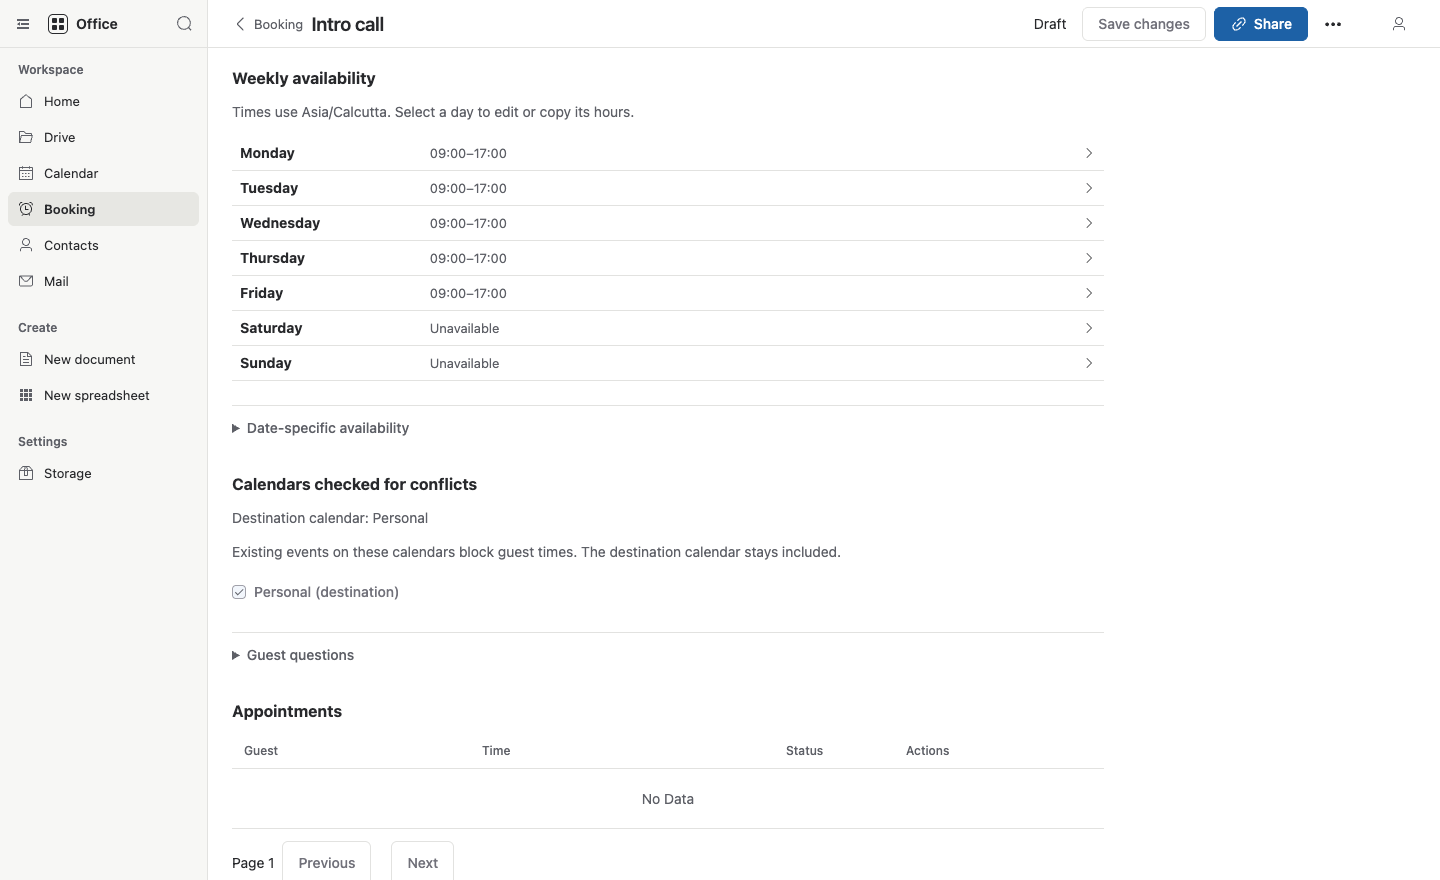
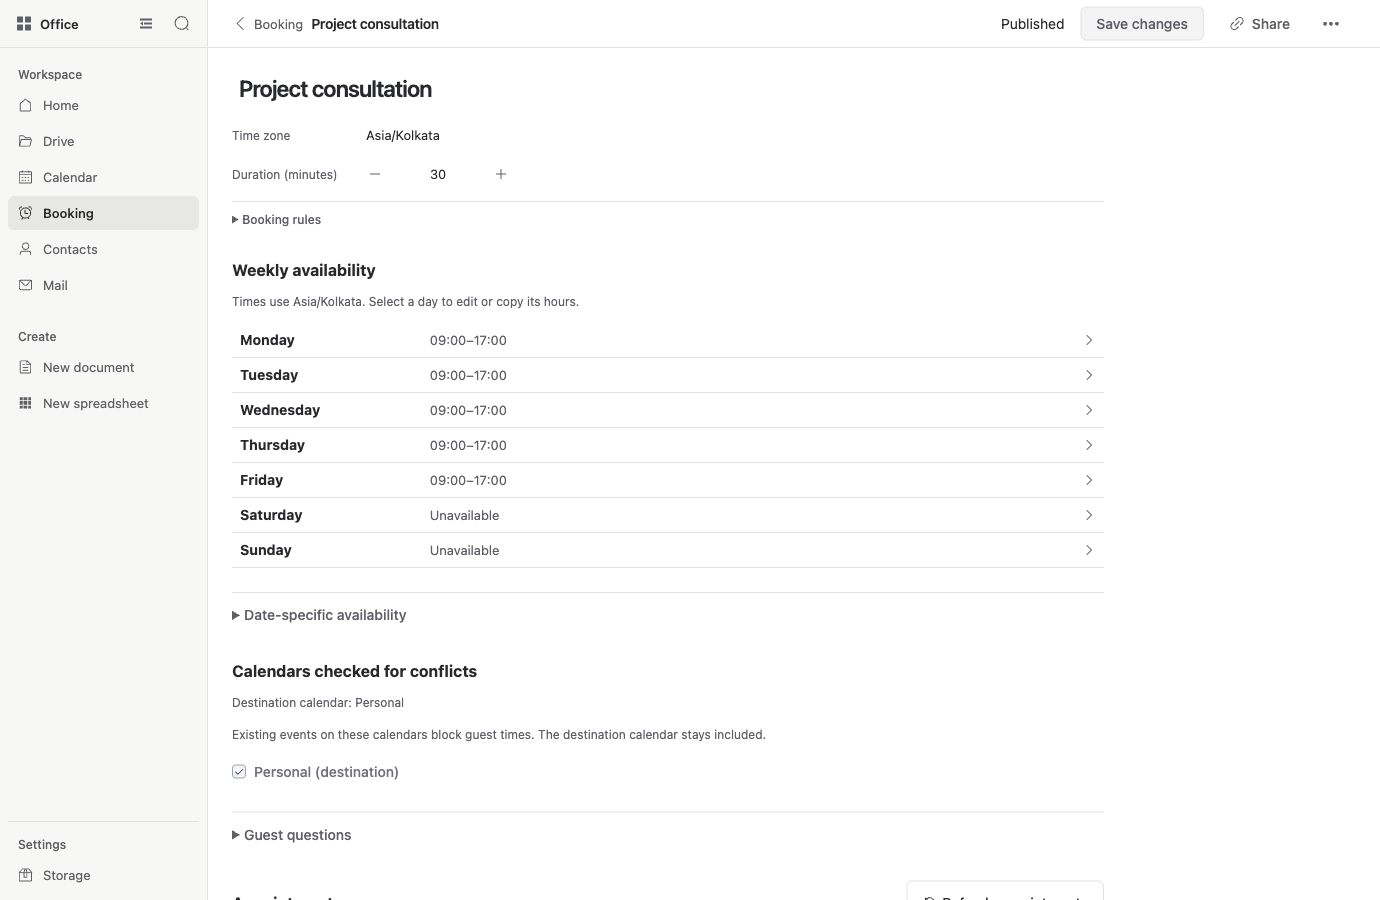
Add twelve actual product screens with a populated project

diff --git a/website/index.template.html b/website/index.template.html
@@ -27,9 +27,9 @@
       <p class="mission-copy">Documents, spreadsheets, files, mail, contacts, calendars and appointment scheduling are built into the same workspace. Run it on your own computer or server, choose who can access it, and decide where your data is stored.</p>
       <div class="product-window">
         <div class="window-bar" aria-hidden="true"><span class="window-dots"><i></i><i></i><i></i></span><span>{{brand}} / Home</span><span class="window-mark">Workspace</span></div>
-        <a class="screen-link" href="./office-home.html" target="_blank" rel="noopener" aria-label="Open the Home screenshot at full size"><img class="product-screen" src="./office-home.png" width="1440" height="960" fetchpriority="high" alt="The Home screen with recent project files, inbox messages, an agenda and upcoming appointments."></a>
+        <a class="screen-link" href="./office-home.html" target="_blank" rel="noopener" aria-label="Open the Home screenshot at full size"><img class="product-screen" src="./office-home.png" width="1380" height="900" fetchpriority="high" alt="The Home screen with recent project files, inbox messages, an agenda and upcoming appointments."></a>
       </div>
-      <div class="screen-caption"><span>Actual product screen · Sample data</span><a href="./office-home.html" target="_blank" rel="noopener">View full-size screen</a></div>
+      <div class="screen-caption"><span>Actual product · Fictional project data</span><a href="./office-home.html" target="_blank" rel="noopener">View full-size screen</a></div>
     </section>
     <section class="ownership-section wrap" aria-label="What an independent workspace means for you">
       <article><h2>Your essential tools, built in</h2><p>The apps share your workspace sign-in and working files. Documents and spreadsheets open from Drive, and stored files are available as mail and event attachments. The editors and booking tools are part of the installation you run.</p></article>
@@ -40,23 +40,24 @@
     <section class="capability-section wrap" aria-labelledby="editing-title">
       <h2 id="editing-title">Document and spreadsheet editors, included</h2>
       <p class="section-lead">The editors open and save files in your own workspace, with editable downloads for your archive. Writing a report or working through business figures doesn’t require a separate hosted editing account.</p>
-      <div class="capability-columns">
-        <article><h3>Docs: control the layout and keep the editable original</h3><ul class="feature-list">
+      <div class="capability-columns editor-stories">
+        <article class="editor-story"><figure class="product-figure"><a class="screen-link" href="./office-docs.html" target="_blank" rel="noopener" aria-label="Open the document editor screenshot at full size"><img class="product-screen" src="./office-docs.png" width="1380" height="900" loading="lazy" decoding="async" alt="A formatted project proposal with scope, delivery dates and project terms."></a><figcaption><span>A proposal with scope, delivery dates and project terms</span><a href="./office-docs.html" target="_blank" rel="noopener">View full size</a></figcaption></figure><div><h3>Docs: control the layout and keep the editable original</h3><ul class="feature-list">
           <li><strong>Control the presentation.</strong> Set page sizes and margins, use headings and lists, and add headers and footers to reports, proposals and working documents.</li>
           <li><strong>Keep the supporting material in the document.</strong> Add tables, images and links. Adjust table rows and columns, image sizes and text wrapping as the document develops.</li>
           <li><strong>Make revisions across a longer document.</strong> Find-and-replace covers text and tables; word count, zoom and undo help with review and editing.</li>
-        </ul></article>
-        <article><h3>Sheets: calculations across a complete workbook</h3><ul class="feature-list">
+        </ul></div></article>
+        <article class="editor-story"><figure class="product-figure"><a class="screen-link" href="./office-sheets.html" target="_blank" rel="noopener" aria-label="Open the spreadsheet editor screenshot at full size"><img class="product-screen" src="./office-sheets.png" width="1380" height="900" loading="lazy" decoding="async" alt="A project budget with calculated costs, spending, remaining balances and a payment schedule."></a><figcaption><span>A working budget, with formulas and multiple worksheets</span><a href="./office-sheets.html" target="_blank" rel="noopener">View full size</a></figcaption></figure><div><h3>Sheets: calculations across a complete workbook</h3><ul class="feature-list">
           <li><strong>Build working budgets and trackers.</strong> Use totals, conditional calculations and lookups, with references between sheets in the same workbook.</li>
           <li><strong>Make long lists easier to inspect.</strong> Sort and filter rows, freeze headings while scrolling, format numbers and find or replace entries.</li>
           <li><strong>Keep related calculations together.</strong> Add, name, duplicate and reorder sheets; resize rows and columns, merge cells and fill sequences of values.</li>
-        </ul></article>
+        </ul></div></article>
       </div>
       <aside class="transfer-note"><h3>Editable copies and data for other tools</h3><p>Download documents as <code>.vdocs</code> and full workbooks as <code>.vsheets</code> to retain their editing features in the suite. Use CSV to bring in tabular data or take the current sheet's calculated values into another tool.</p></aside>
     </section>
     <section class="files-section wrap" aria-labelledby="files-title">
       <h2 id="files-title">Recognize the file before you open it</h2>
       <p class="section-lead">Drive puts native documents, spreadsheets and uploaded files in one file list. Previews, filenames and file details help you identify what you need before downloading it.</p>
+      <figure class="product-figure"><a class="screen-link" href="./office-drive.html" target="_blank" rel="noopener" aria-label="Open the drive preview screenshot at full size"><img class="product-screen" src="./office-drive.png" width="1380" height="900" loading="lazy" decoding="async" alt="Project documents, a budget, meeting notes and a content checklist with an inline text preview."></a><figcaption><span>Project files and a checklist preview, in the same browser</span><a href="./office-drive.html" target="_blank" rel="noopener">View full size</a></figcaption></figure>
       <div class="capability-columns">
         <article><h3>Drive</h3><ul class="feature-list">
           <li><strong>Search the file list.</strong> Find files by name and inspect their type, size and last-edited date.</li>
@@ -72,21 +73,23 @@
     </section>
     <section class="daily-section" aria-label="Correspondence and contact information">
       <div class="wrap daily-grid">
-        <article><h2>Keep a searchable correspondence history</h2><ul class="feature-list">
+        <article><h2>Keep a searchable correspondence history</h2><figure class="product-figure"><a class="screen-link" href="./office-mail.html" target="_blank" rel="noopener" aria-label="Open the message reader screenshot at full size"><img class="product-screen" src="./office-mail.png" width="1380" height="900" loading="lazy" decoding="async" alt="A client message confirming the scope and the dates needed for a project launch."></a><figcaption><span>Reading a client’s scope confirmation</span><a href="./office-mail.html" target="_blank" rel="noopener">View full size</a></figcaption></figure><ul class="feature-list">
           <li><strong>Find the relevant exchange.</strong> Search a folder by subject, sender or To/Cc recipient, and narrow results to unread messages.</li>
           <li><strong>Work through a busy inbox.</strong> Star important mail, file messages into folders, and archive or mark several messages as read at once.</li>
           <li><strong>Prepare the reply you need.</strong> Use formatted or plain text, Cc and Bcc, inline images, and attachments from your computer or Drive. Keep unfinished emails as drafts.</li>
           <li><strong>Keep a copy of correspondence.</strong> Download attachments individually or download the original message for your own archive.</li>
         </ul></article>
-        <article><h2>Keep your contact lists usable elsewhere</h2><ul class="feature-list">
+        <article><h2>Keep your contact lists usable elsewhere</h2><figure class="product-figure"><a class="screen-link" href="./office-contacts.html" target="_blank" rel="noopener" aria-label="Open the contact preview screenshot at full size"><img class="product-screen" src="./office-contacts.png" width="1380" height="900" loading="lazy" decoding="async" alt="A project contact list with organizations, email addresses and telephone numbers, alongside a client preview."></a><figcaption><span>Client and supplier details, with a contact preview</span><a href="./office-contacts.html" target="_blank" rel="noopener">View full size</a></figcaption></figure><ul class="feature-list">
           <li><strong>Keep the details together.</strong> Store multiple email addresses, phone numbers and postal addresses, with organization details, notes and categories.</li>
           <li><strong>Separate different kinds of relationships.</strong> Use different address books for clients, suppliers or personal contacts, then search or filter each book.</li>
           <li><strong>Review an import before adding people.</strong> Check incoming vCards and possible duplicates, and choose which contacts to add.</li>
           <li><strong>Take a usable export.</strong> Download one contact or an entire address book as vCards for backup or use in another address-book application.</li>
         </ul></article>
       </div>
+      <div class="wrap inbox-screen"><figure class="product-figure"><a class="screen-link" href="./office-inbox.html" target="_blank" rel="noopener" aria-label="Open the mail inbox screenshot at full size"><img class="product-screen" src="./office-inbox.png" width="1380" height="900" loading="lazy" decoding="async" alt="Client and supplier correspondence about an active studio launch."></a><figcaption><span>The launch correspondence, gathered in Mail</span><a href="./office-inbox.html" target="_blank" rel="noopener">View full size</a></figcaption></figure></div>
     </section>
     <section class="booking-section wrap" aria-label="Planning commitments and setting appointment boundaries">
+<figure class="product-figure"><a class="screen-link" href="./office-calendar.html" target="_blank" rel="noopener" aria-label="Open the weekly calendar screenshot at full size"><img class="product-screen" src="./office-calendar.png" width="1380" height="900" loading="lazy" decoding="async" alt="A working week of discovery meetings, design time, content reviews and project planning."></a><figcaption><span>A scheduled week of meetings, focused work and reviews</span><a href="./office-calendar.html" target="_blank" rel="noopener">View full size</a></figcaption></figure>
       <div class="capability-columns scheduling-columns">
         <article><h2>Plan recurring work and changing commitments</h2><ul class="feature-list">
           <li><strong>Choose the useful view.</strong> Switch between month, week, day and agenda views, or search for a particular event.</li>
@@ -101,7 +104,8 @@
           <li><strong>Collect useful information beforehand.</strong> Add custom questions and require the answers you need before a meeting.</li>
         </ul></article>
       </div>
-      <figure class="booking-image"><a class="screen-link" href="./office-booking.html" target="_blank" rel="noopener" aria-label="Open the appointment availability screenshot at full size"><img class="product-screen" src="./office-booking.png" width="1440" height="900" loading="lazy" alt="An appointment configuration showing weekly availability, date-specific availability, calendar conflict checks and guest questions."></a><figcaption>Availability settings · Sample data</figcaption></figure>
+      <div class="screen-pair"><figure class="product-figure"><a class="screen-link" href="./office-event.html" target="_blank" rel="noopener" aria-label="Open the event details screenshot at full size"><img class="product-screen" src="./office-event.png" width="1380" height="900" loading="lazy" decoding="async" alt="A client discovery meeting with its description, time, location and attachment controls."></a><figcaption><span>A scheduled meeting, with preparation details</span><a href="./office-event.html" target="_blank" rel="noopener">View full size</a></figcaption></figure><figure class="product-figure"><a class="screen-link" href="./office-booking.html" target="_blank" rel="noopener" aria-label="Open the weekly availability screenshot at full size"><img class="product-screen" src="./office-booking.png" width="1380" height="900" loading="lazy" decoding="async" alt="A consultation schedule with weekday availability and a calendar checked for conflicts."></a><figcaption><span>The working hours guests can book</span><a href="./office-booking.html" target="_blank" rel="noopener">View full size</a></figcaption></figure></div>
+      <div class="screen-pair"><figure class="product-figure"><a class="screen-link" href="./office-booking-rules.html" target="_blank" rel="noopener" aria-label="Open the appointment rules screenshot at full size"><img class="product-screen" src="./office-booking-rules.png" width="1380" height="900" loading="lazy" decoding="async" alt="Consultation buffers, advance notice, booking horizon and capacity settings."></a><figcaption><span>Time buffers, notice and booking limits</span><a href="./office-booking-rules.html" target="_blank" rel="noopener">View full size</a></figcaption></figure><figure class="product-figure"><a class="screen-link" href="./office-guest.html" target="_blank" rel="noopener" aria-label="Open the guest booking page screenshot at full size"><img class="product-screen" src="./office-guest.png" width="1380" height="900" loading="lazy" decoding="async" alt="A guest-facing consultation page with a date, time zone and available appointment times."></a><figcaption><span>The appointment page your guest sees</span><a href="./office-guest.html" target="_blank" rel="noopener">View full size</a></figcaption></figure></div>
     </section>
     <section class="deployment-section" aria-labelledby="deployment-title">
       <div class="wrap deployment-grid">

diff --git a/website/office.css b/website/office.css
@@ -142,3 +142,29 @@ h3 { font-size: 1.0625rem; font-weight: 550; letter-spacing: -.015em; }
 .transfer-note { margin-top: 32px; padding-top: 24px; border-top: 1px solid var(--border); }
 .transfer-note p { margin-top: 10px; color: var(--muted); }
 .deployment-grid>div>.section-lead { margin-top: -8px; margin-bottom: 28px; }
+
+/* Real application captures remain visible beside the capabilities they show. */
+.product-figure { min-width: 0; margin-block: 28px; }
+.product-figure .screen-link { border: 1px solid var(--border); border-radius: 6px; overflow: hidden; background: var(--soft); }
+.product-figure figcaption { display: flex; justify-content: space-between; gap: 16px; margin-top: 10px; color: var(--muted); font-size: .875rem; line-height: 1.5; }
+.product-figure figcaption a { flex-shrink: 0; }
+.editor-stories { grid-template-columns: minmax(0,1fr); gap: 48px; margin-top: 32px; }
+.editor-story { display: grid; grid-template-columns: minmax(0,1.6fr) minmax(0,1fr); gap: 32px; align-items: start; }
+.editor-story .product-figure { margin: 0; }
+.daily-grid .product-figure { margin-block: 0 28px; }
+.daily-section .product-figure figcaption { color: #ccc; }
+.daily-section .product-figure .screen-link { border-color: #555; }
+.inbox-screen { padding-bottom: 48px; }
+.inbox-screen .product-figure { margin: 0; }
+.booking-section>.product-figure { margin: 0 0 40px; }
+.screen-pair { display: grid; grid-template-columns: minmax(0,1fr) minmax(0,1fr); gap: 28px; margin-top: 32px; }
+.screen-pair .product-figure { margin: 0; }
+@media(max-width:900px) {
+  .editor-story { grid-template-columns: minmax(0,1fr); gap: 24px; }
+  .product-figure figcaption { flex-wrap: wrap; gap: 6px 16px; }
+}
+@media(max-width:600px) {
+  .screen-pair { grid-template-columns: minmax(0,1fr); gap: 28px; }
+  .product-figure { margin-block: 24px; }
+  .inbox-screen { padding-bottom: 36px; }
+}

diff --git a/website/README.md b/website/README.md
@@ -14,9 +14,18 @@ The build writes only to ignored `website/dist/`. It includes the page, local
 assets, canonical URL, sitemap, robots file and domain metadata. There are no
 analytics, signup forms, external fonts or runtime services.
 
-Product screens use disposable sample data from the Home dashboard and Booking
-availability evidence. The source PNGs are copied unchanged and presented in
-grayscale through CSS.
+The 12 product screens were captured from the actual `release/Office` application
+on 23 November 2026, using an isolated local workspace and a fictional Studio North
+/ Ember Studio project. They show a formatted proposal, a calculated project budget,
+project files and previews, client correspondence, contacts, calendar events,
+appointment rules and the real guest booking page. These are application renders,
+not HTML replicas or generated illustrations. No customer workspace data is used.
+
+`office-screens.json` records each image's label, description and dimensions.
+Captures are cropped to exclude a third-party browser extension at the right edge;
+product content is not composited or retouched. Grayscale is applied through CSS.
+Every image has a full-size viewer; below-the-fold images load lazily. Together,
+the source PNGs total less than 1 MiB.
 
 ## Hosting
 
